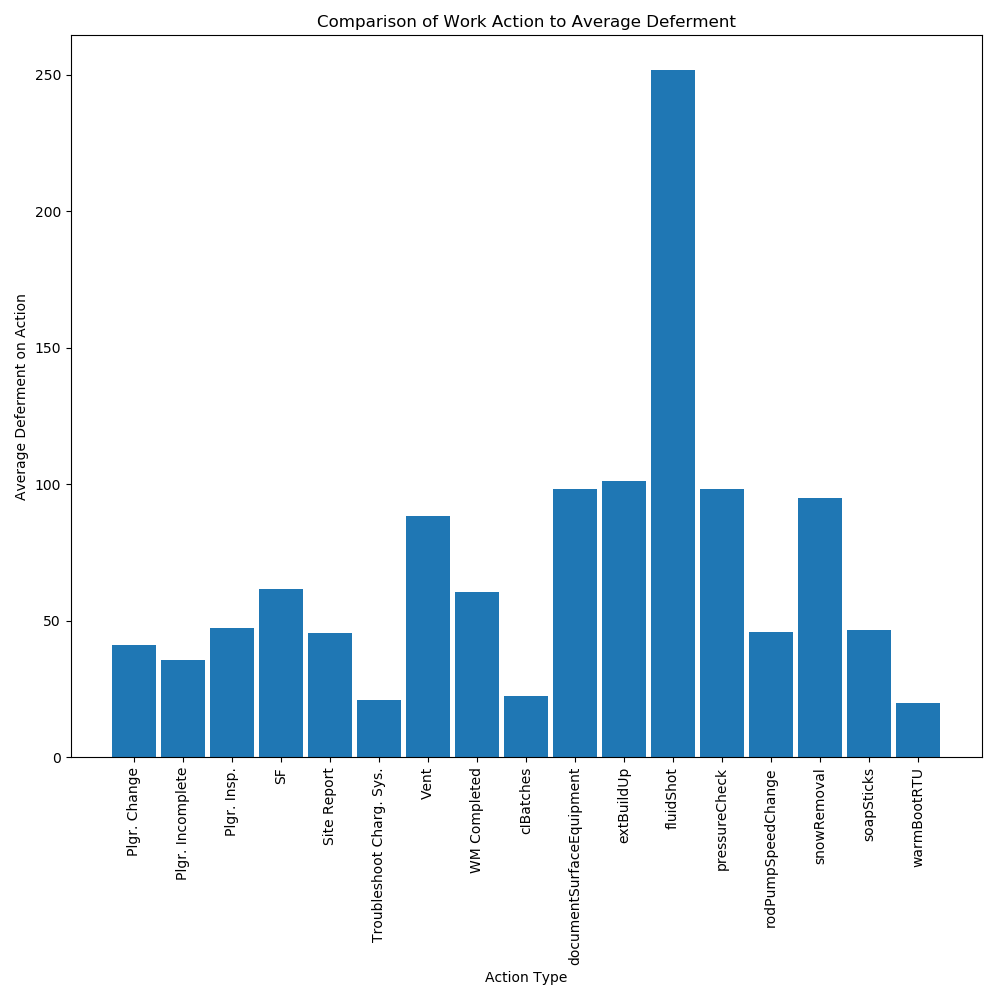
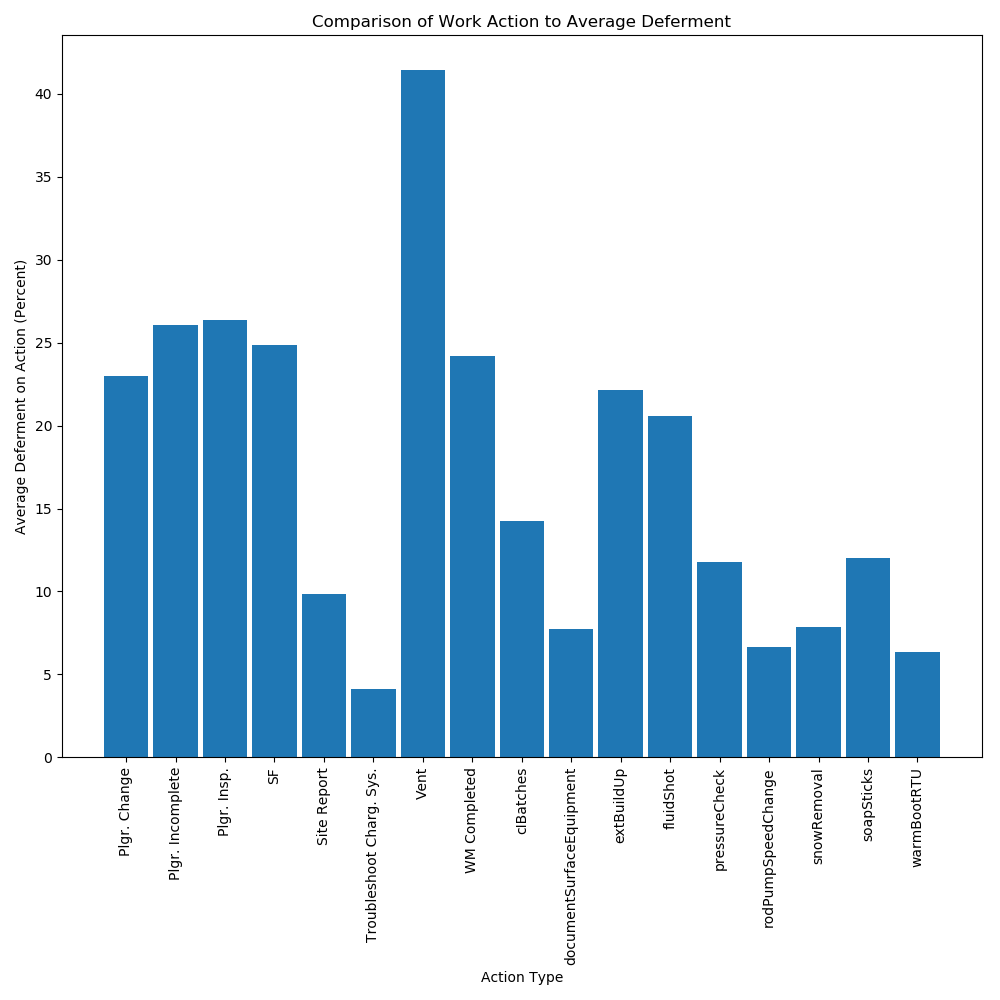
using percent deferment

diff --git a/eda.py b/eda.py
@@ -18,8 +18,39 @@ def enbase_pull():
 
 	cursor = connection.cursor()
 	SQLCommand = ("""
-		SELECT  *
-		FROM [TeamOptimizationEngineering].[Reporting].[ActionListHistory];
+        SELECT ALH. Wellkey
+              ,[BusinessUnit]
+              ,[Area]
+              ,[WellName]
+              ,[OwnerNTID]
+              ,[createdby]
+              ,[Owner Nickname]
+              ,[_id]
+              ,[assetAPI]
+              ,[PriorityLevel]
+              ,[PriorityType]
+              ,[DispatchReason]
+              ,[Person_assigned]
+              ,[Action Date]
+              ,[Action Type - No count]
+              ,[Action Type]
+              ,[Action Type 1]
+              ,[Action Type 2]
+              ,[Comment]
+              ,ALH.DefermentDate
+              ,[Action Status]
+              ,ALH.DefermentGas
+              ,ALH.CleanAvgGas
+        	  ,CASE WHEN ALH.DefermentGas > 0 AND P.MeasuredGas > 0
+        	   THEN (ALH.DefermentGas / PC.CleanAvgGas) * 100
+        	   ELSE 0 END AS PercentDeferment
+          FROM [TeamOptimizationEngineering].[Reporting].[ActionListHistory] AS ALH
+          JOIN [OperationsDataMart].[Facts].[Production] AS P
+        	ON P.Wellkey = ALH.Wellkey
+        	AND ALH.DefermentDate = P.DateKey
+          JOIN [OperationsDataMart].[Facts].[ProductionCalculations] AS PC
+          	ON PC.Wellkey = ALH.Wellkey
+        	AND ALH.DefermentDate = PC.DateKey
 	""")
 
 	cursor.execute(SQLCommand)
@@ -43,7 +74,7 @@ def enbase_pull():
 def deferment_stats(df):
 	def_dic = {}
 	for action in df['action_type_no_count'].unique():
-		def_dic[action] = df[df['action_type_no_count'] == action]['defermentgas'].mean()
+		def_dic[action] = df[df['action_type_no_count'] == action]['percentdeferment'].mean()
 	return def_dic
 
 def deferment_plot(dic):
@@ -54,7 +85,7 @@ def deferment_plot(dic):
 
 	plt.xticks(rotation='vertical')
 	plt.xlabel('Action Type')
-	plt.ylabel('Average Deferment on Action')
+	plt.ylabel('Average Deferment on Action (Percent)')
 	plt.title('Comparison of Work Action to Average Deferment')
 	plt.tight_layout()
 
@@ -62,9 +93,9 @@ def deferment_plot(dic):
 
 
 if __name__ == '__main__':
-	enb_df = enbase_pull()
-	enb_df.to_csv('data/enb_pull.csv')
+	# enb_df = enbase_pull()
+	# enb_df.to_csv('data/enb_pull.csv', encoding='utf-8')
 	enb_df = pd.read_csv('data/enb_pull.csv')
 
 	def_dic = deferment_stats(enb_df)
-    deferment_plot(def_dic)
+	deferment_plot(def_dic)
